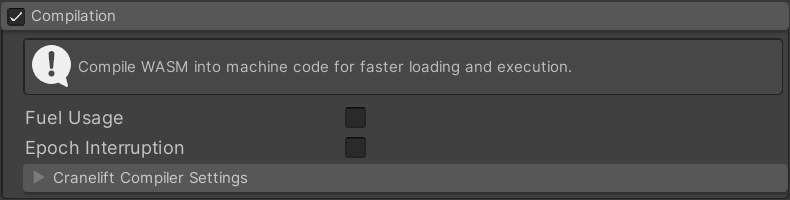
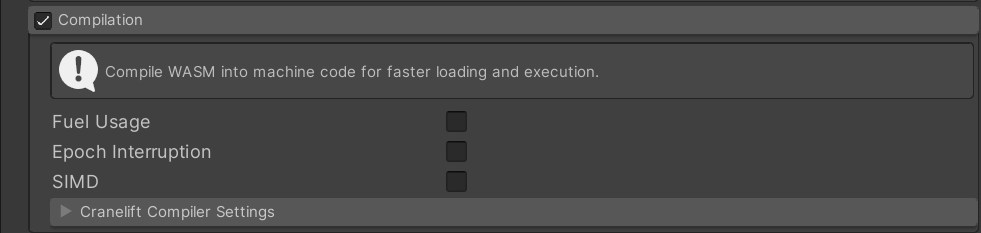
Added notes about SIMD and non-determinism

diff --git a/docs/advanced/determinism.md b/docs/advanced/determinism.md
@@ -1,6 +1,27 @@
 ---
 title: Determinism
-sidebar_position: 1
 ---
 
-todo:determinism
+Determinism is a core design goal of assembly, the same WASM code should produce the same results when executed on any platform. You can read more about the design of determinism in WebAssembly [here](https://github.com/WebAssembly/design/blob/main/Nondeterminism.md).
+
+Within Wasmbox there are a two main sources of non-determinism:
+ - SIMD
+ - WASI
+
+## SIMD
+
+SIMD (Single Instruction Multiple Data) instructions can potentially bring a huge speedup to heavily mathematical code. However, the exact semantics of SIMD may differ slightly when run on different hardware platforms.
+
+:::tip
+
+To ensure deterministic execution across all platforms ensure that SIMD is **disabled**.
+
+:::
+
+To disable SIMD you must check the [importer precompile settings](../reference/editor/import.md#4-compilation) and also the [EngineConfig](../reference/code/engineconfig.md#simd) used an runtime.
+
+## WASI
+
+WASI (Web Assembly System Interface) provides access to system resources such as clocks, random numbers and the file system. All of these resources are non-deterministic by.
+
+Wasmbox provides multiple implementations of most WASI features, some of which can be used to provide determinism. For example the [Random Number Generator](../reference/code/WASI/random.md) has two implementations: [CryptoRandomSource](../reference/code/WASI/random.md#cryptorandomsource) provides truly random numbers (non-deterministic) and the [FastRandomSource](../reference/code/WASI/random.md#fastrandomsource) provides pseudo random numbers from a seed value (deterministic).

diff --git a/docs/reference/code/codegeneration.md b/docs/reference/code/codegeneration.md
@@ -3,7 +3,7 @@ title: Generated Code
 sidebar_position: 6
 ---
 
-When a `*.wasm` or `*.wat` file is [imported](../editor/import.md) the option `Generate C# Wrpaper Code` can be enabled to automatically generate a C# script which "wraps" the WASM module. This wrapper code handles most of the "low level" details of interacting with an instantiated WASM module.
+When a `*.wasm` or `*.wat` file is [imported](../editor/import.md) the option `Generate C# Wrapper Code` can be enabled to automatically generate a C# script which "wraps" the WASM module. This wrapper code handles most of the "low level" details of interacting with an instantiated WASM module.
 
 :::caution
 
@@ -21,7 +21,11 @@ For more information see [this tutorial](../../basics/jobs.md) on multithreaded 
 
 ## WebAssembly System Interface (WASI)
 
-todo:[WASI](../../basics/wasi.md)
+WebAssembly System Interface ([WASI](../../basics/wasi.md)) is a set of APIs which allow access to system resources (such as the filesystem) in a tightly controlled way. If a WASM asset imports any functions which are part of the WASI spec they will be marked in the inspector:
+
+![WASI Import](../../../static/img/InspectorWasi.png)
+
+These functions must be defined in the [`Linker`](./wasmtime/linker.md) before the module can be used. Wasmbox provides implementations of most WASI functions ([see documentation here](/category/wasi)). Hovering over the `WASI` marker in the editor will tell you which WASI implementation is required.
 
 ## Optional Features
 

diff --git a/docs/reference/editor/import.md b/docs/reference/editor/import.md
@@ -69,6 +69,7 @@ If compilation is **disabled** WASM will be stored in a "Universal" format and c
 
  - `Fuel Usage`: Compile with support for [Fuel Usage](/basics/fuelusage.md).
  - `Epoch Interruption`: Compile with support for [Epoch Interruption](/basics/epochinterruption.md).
+ - `SIMD`: Enable SIMD instructions (faster, but [non-deterministic](./../../advanced/determinism.md)).
  - `Cranelift Compiler Settings`: Enable specific feature flags in the [cranelift](https://github.com/bytecodealliance/wasmtime/tree/main/cranelift) compiler. The CPU used at runtime must support these features for the precompiled WASM to be loaded, if they are not supported the `Universal` fallback will be used instead (equivalent to not precompiling).
 
 :::

diff --git a/docs/reference/code/engineconfig.md b/docs/reference/code/engineconfig.md
@@ -29,6 +29,10 @@ Include support for `Epoch Interruption` in compiled code. When enabled executin
 
 For more details on epoch interruption, see [this tutorial](/basics/epochinterruption.md).
 
+### `SIMD`
+
+Enable SIMD instructions in compiled code. This can be significantly faster but may be [non-deterministic](./../../advanced/determinism.md).
+
 ### `EpochGroup`
 
 All identical `EngineConfig` objects will share the same underlying `Engine`. However when `Engine.IncrementEpoch()` is called it applies to _all_ instances created by that `Engine`, which may be undesirable. The `EpochGroup` is a way to force two `EngineConfig` objects to not be identical.
